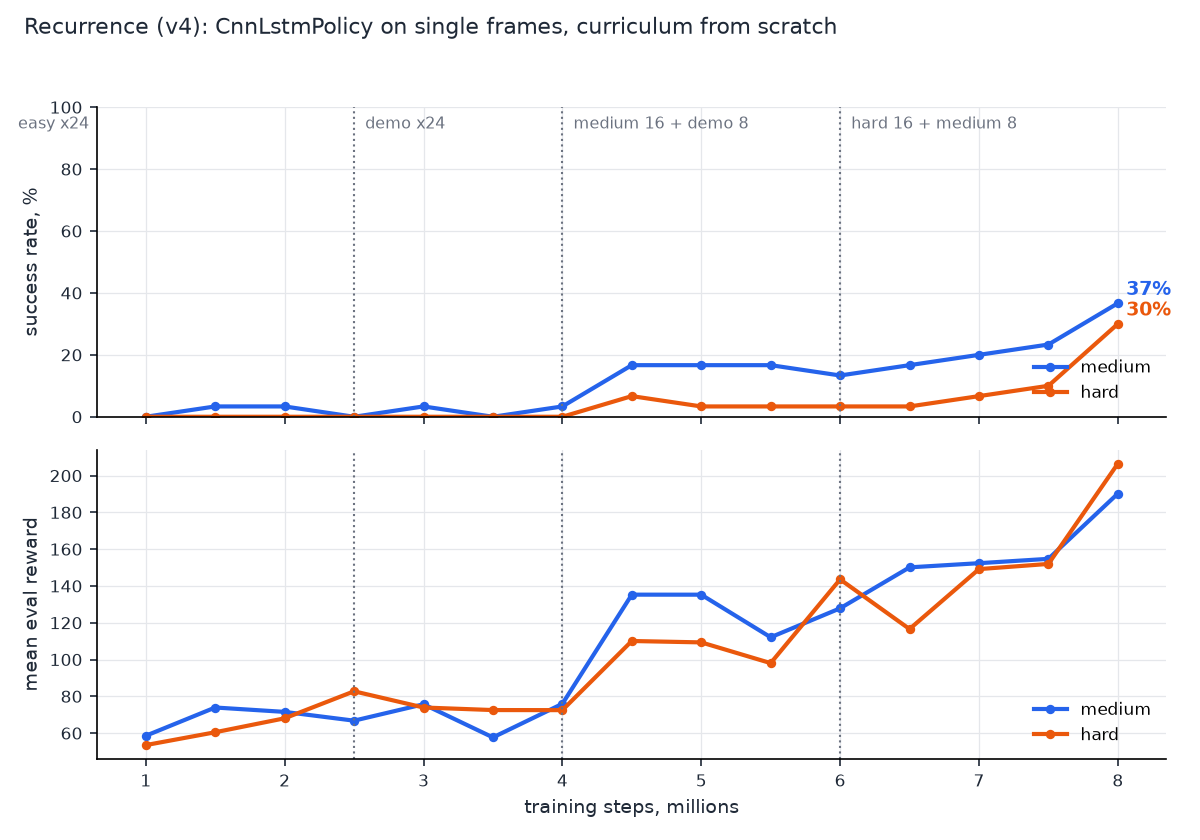
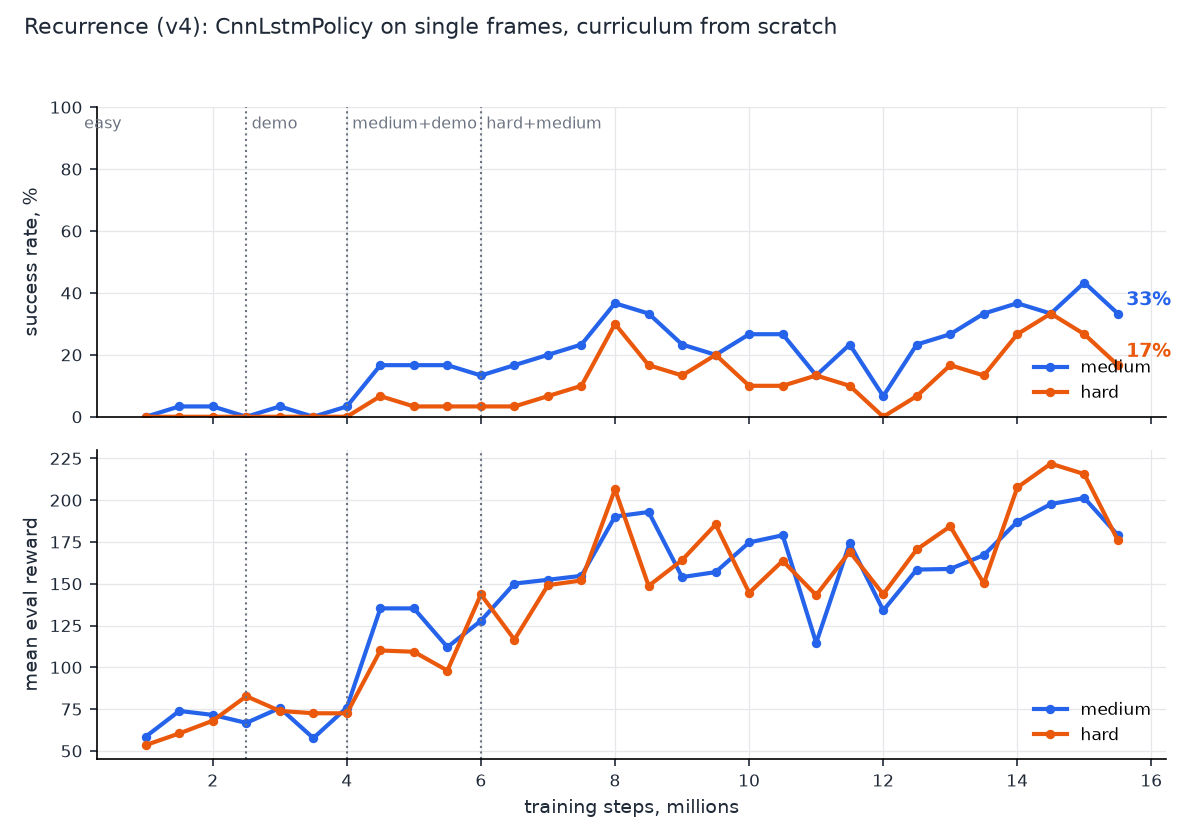
Replace the v4 framing: measure the budget doubling and the eval noise
The 8M write-up excused v4's gap to v3 by saying both eval curves were
still climbing at the budget end. Resuming the run to 16M inside the same
curriculum stage shows that was wrong. Pooled over the last four
evaluations of each half (120 held-out episodes per cell) typical
performance rises - medium 24.2 to 36.7 percent, z 2.12; hard 12.5 to
25.8, z 2.66 - while the best-on-eval peak does not move (36.7 medium,
33.3 hard), and easy decays 70 to 50 percent because the mixed pools only
rehearse the adjacent tier.

The same run measures the evaluation itself: 30 deterministic episodes
carry roughly plus or minus 14 points at 95 percent, so the v4-vs-v2 gaps
this README used to present as results are noise, and every published
column is the top of a noisy band rather than typical behaviour.

The published v4 table is unchanged: it is the 8M best-on-eval snapshot
and still reproduces bit for bit. The curve figure now covers the full
1M to 15.5M with shortened stage labels.

diff --git a/scripts/plot_curriculum_eval.py b/scripts/plot_curriculum_eval.py
@@ -38,8 +38,10 @@ RUNS = {
         eval_dir="eval_lstm",
         out="lstm_training_curve.png",
         title="Recurrence (v4): CnnLstmPolicy on single frames, curriculum from scratch",
-        stages=[(0.0, "easy x24"), (2.5, "demo x24"), (4.0, "medium 16 + demo 8"),
-                (6.0, "hard 16 + medium 8")],
+        # Short labels: this run spans 16M, so the 4M and 6M marks sit close
+        # together and the full "medium 16 + demo 8" spelling collides.
+        stages=[(0.0, "easy"), (2.5, "demo"), (4.0, "medium+demo"),
+                (6.0, "hard+medium")],
     ),
 }
 

diff --git a/README.md b/README.md
@@ -291,22 +291,75 @@ The budgets differ by design and the table has to be read that way.
 | medium | 33% | **57%** | 37% |
 | hard | 23% | **53%** | 30% |
 
+The curve below covers the whole experiment, including the budget-doubling
+extension described in the next section, so it runs to 15.5M rather than 8M:
+
 ![LSTM training curve](assets/lstm_training_curve.png)
 
 Recurrence does replace the frame stack: an LSTM on single raw frames
-learns this game, and on the two harder tiers it scores above the v2
-column (37 vs 33, 30 vs 23). That pair of numbers is not an architecture
-win, though - v2 only ever trained on easy, so its medium and hard
-figures are pure transfer, while v4 trained on those tiers directly. The
-like-for-like comparison is v4 against v3, both curricula ending on
-hard + medium, and there the recurrent agent reaches roughly 55 to 90
-percent of v3's per-tier scores on less than half the steps and with no
-warm start.
+learns this game. It also scores above the v2 column on the two harder
+tiers (37 vs 33, 30 vs 23), but neither gap survives the noise analysis
+below, and v2 only ever trained on easy, so its medium and hard figures
+are pure transfer while v4 trained those tiers directly. The like-for-like
+comparison is v4 against v3, both curricula ending on hard + medium, and
+there the recurrent agent reaches roughly 55 to 90 percent of v3's
+per-tier scores on less than half the steps and with no warm start.
 
-The experiment did not find a ceiling. Both eval curves hit their maximum
-on the very last point and were still climbing when the budget ran out
-(medium 13 -> 17 -> 20 -> 23 -> 37 percent over the final 2M), so these
-are a floor for the architecture rather than its limit.
+### Doubling the budget: 8M to 16M steps
+
+The 8M run ended with both eval curves at their maximum, which looked like
+a trend that had not finished. It was not one. The run was resumed from its
+final save and trained to 16M inside the same hard + medium stage, so the
+two halves are directly comparable. Pooling the last four evaluations of
+each half gives 120 held-out episodes per cell:
+
+| pooled over 120 episodes | 6.5 to 8M | 14 to 15.5M | delta | z |
+|---|---|---|---|---|
+| medium success | 24.2% +/- 3.9 | 36.7% +/- 4.4 | +12.5 | 2.12 |
+| hard success | 12.5% +/- 3.0 | 25.8% +/- 4.0 | +13.3 | 2.66 |
+| medium reward | 161.9 | 191.3 | +29.4 | 1.96 |
+| hard reward | 156.1 | 205.3 | +49.2 | 2.97 |
+
+Four tests, so a Bonferroni correction asks for |z| > 2.50: hard clears it
+on both metrics, medium does not. Meanwhile the peak barely moved. Running
+the same held-out matrix on the 16M best-on-eval snapshot gives 36.7 percent
+medium (identical to 8M) and 33.3 percent hard (one more episode out of 30),
+so the extra budget bought typical performance rather than peak performance:
+the agent became reliably as good as it used to be on its best days, without
+getting better on its best days. The published table above stays the 8M
+snapshot, because the 16M one does not dominate it.
+
+It also cost something. The mixed env pools rehearse only the ADJACENT tier -
+the final stage runs hard x16 + medium x8 - so nothing has trained or
+rehearsed easy since 2.5M, and over those 8M extra steps easy decayed from
+70 to 50 percent (demo 60 to 57). That is the same mechanism the curriculum
+section credits for protecting demo, seen from the other side: mixed pools
+slow forgetting where they reach and do nothing where they do not.
+
+### What a 30-episode evaluation can and cannot tell you
+
+This is the most transferable result in the project, and it applies to every
+table above. A deterministic evaluation over 30 held-out seeds has a binomial
+standard error of about 7.3 points at a true success rate near 0.2, so its
+95 percent interval spans roughly plus or minus 14 points. The extension
+demonstrates it directly: with the training side flat, individual medium
+evaluations read anywhere from 6.7 to 43.3 percent and hard from 0.0 to
+33.3 percent.
+
+Two consequences:
+
+- The v4-vs-v2 gaps quoted above (37 vs 33 on medium, 30 vs 23 on hard) sit
+  well inside that interval. They are not evidence of anything.
+- Every published column is a best-on-eval snapshot, which is the top of a
+  noisy band rather than typical behaviour. That is true of v2 and v3 too, so
+  the columns are at least biased the same way, but any single one should be
+  read as an upper estimate.
+
+The tables themselves are exact and reproduce bit for bit, because a fixed
+model on fixed seeds is deterministic. What is noisy is reading one such
+number as the architecture's ability. The fix is more seeds: 200 held-out
+seeds would cut the standard error to 2.8 points, and re-measuring v2, v3
+and v4 together is the obvious next step.
 
 One negative result worth recording: a shared actor-critic LSTM, used to
 buy throughput during tuning, collapsed in the first full run -
@@ -351,5 +404,6 @@ together with the pack's `License.txt`.
 - v1.5: vision debug panel and detection-style overlays - done (policy monitor)
 - v1.6: curriculum to medium/hard - done (57% medium / 53% hard from raw pixels)
 - v1.7: recurrence ceiling experiment - done (LSTM on single frames, 37% medium
-  / 30% hard on 8M from scratch, curve still rising at the budget end)
+  / 30% hard on 8M from scratch; doubling the budget to 16M raised typical
+  performance but not the peak)
 - v2.0: portfolio dashboard
